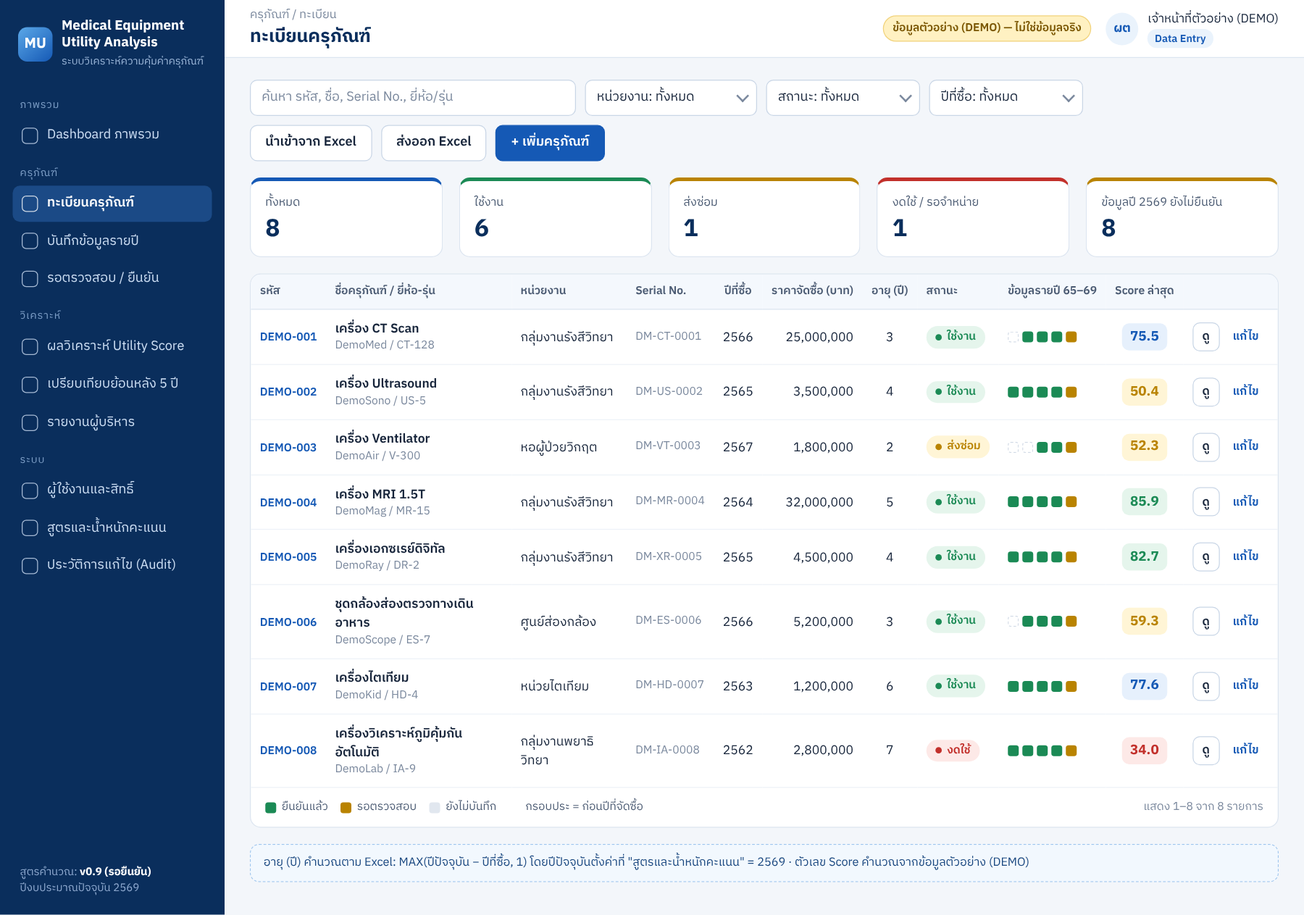
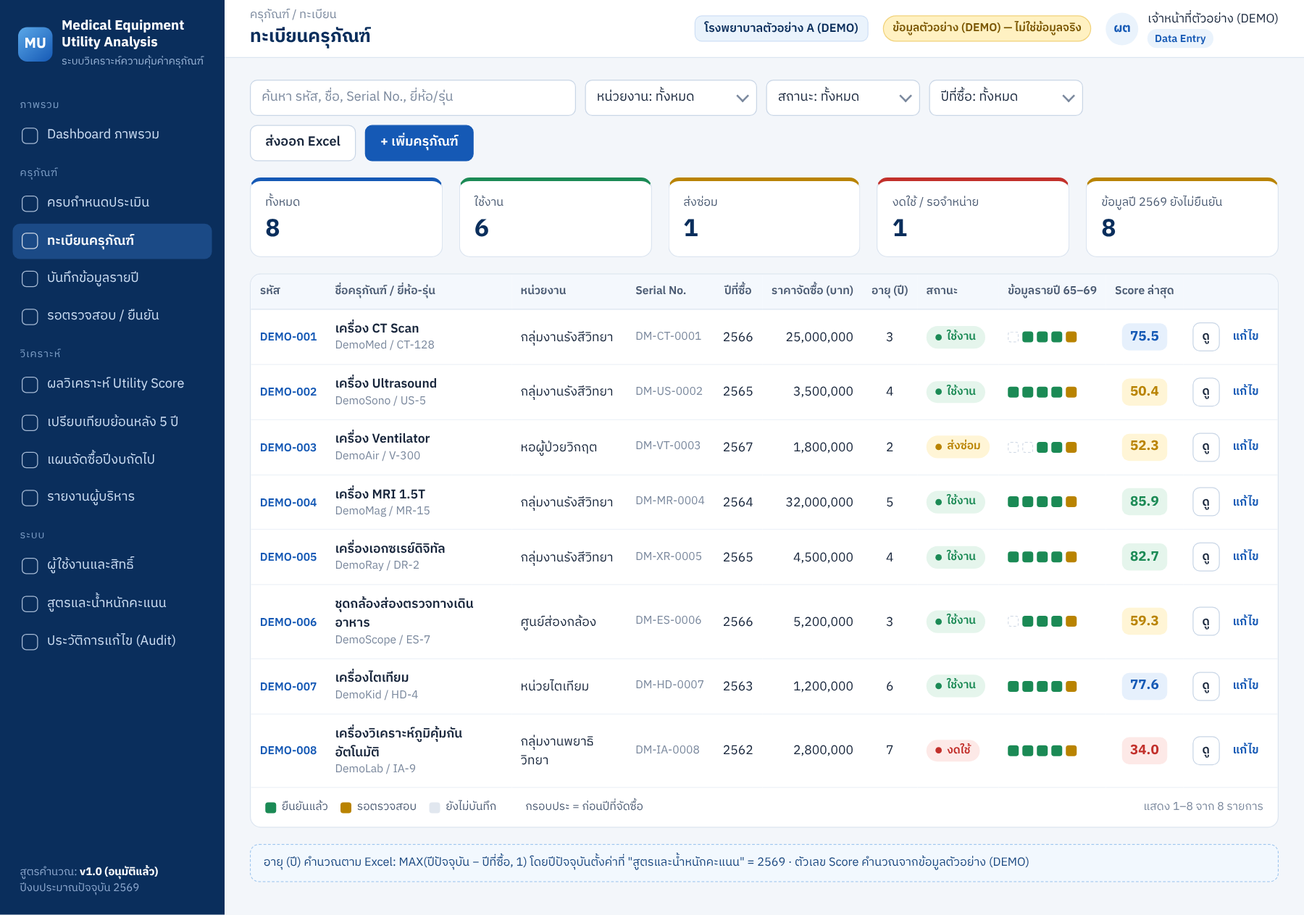
Record approved decisions (formula set v1.0) and multi-hospital assessment cycle
- Q-01..Q-14 adopted as recommended; Q-15 changed: no Excel import,
  hospital staff inspect and enter due equipment each fiscal year
- Add hospital tenant model, assessment cycle, due-task and
  next-year procurement plan to architecture, modules and DB design
- New mockups: due-assessment list and procurement plan; existing
  mockups show approved formula set and hospital context
- New open questions N-01..N-06

Claude-Session: https://claude.ai/code/session_012tXZqSBYX4rPjLh51zmygu

diff --git a/docs/Phase1-Analysis-Design.md b/docs/Phase1-Analysis-Design.md
@@ -1,8 +1,8 @@
 # ระยะที่ 1: วิเคราะห์เอกสารและออกแบบระบบ
 ## Medical Equipment Utility Analysis Web Application
 
-> **สถานะ:** รอการตรวจสอบและอนุมัติ ยังไม่ได้เขียนโปรแกรม สร้างฐานข้อมูล Deploy หรือเชื่อมต่อระบบจริง
-> **วันที่จัดทำ:** 2 พ.ย. 2569
+> **สถานะ:** ประเด็น Q-01 ถึง Q-15 **อนุมัติแล้ว** (2 พ.ย. 2569) ตามข้อเสนอ ยกเว้น Q-15 ที่ปรับตามวิธีนำเข้าข้อมูลที่กำหนด (ดูข้อ 1.10) ภาพ Mockup ยังรอการอนุมัติ ยังไม่ได้เขียนโปรแกรม สร้างฐานข้อมูล Deploy หรือเชื่อมต่อระบบจริง
+> **วันที่จัดทำ:** 2 พ.ย. 2569 · **ปรับปรุงครั้งที่ 2:** 2 พ.ย. 2569 (เพิ่มรูปแบบหลายโรงพยาบาล, รอบการประเมินประจำปี, แผนจัดซื้อปีงบถัดไป)
 > **ข้อมูลในภาพ Mockup ทั้งหมดเป็นข้อมูลตัวอย่าง (DEMO)** รหัสขึ้นต้นด้วย `DEMO-` ทั้งหมด ไม่ใช่ข้อมูลจริงของหน่วยงาน
 
 ---
@@ -217,9 +217,66 @@ Form Questions (รายปี)  ··· ไม่มีการเชื่อ
 | **Q-14** | ครุภัณฑ์ที่ซื้อพร้อมกันหลายเครื่อง (E-10) บันทึกแยกเครื่องหรือรวม และราคาต่อเครื่องคิดอย่างไร | แยกเครื่องตาม Serial พร้อมอ้างเลขสัญญาเดียวกัน |
 | **Q-15** | ข้อมูลจริงในไฟล์ B ต้องนำเข้าระบบหรือไม่ และใครยืนยันความถูกต้อง | นำเข้าเป็น "ร่าง" ให้ Reviewer ยืนยันทีละรายการ |
 
+## 1.10 บันทึกการตัดสินใจ (อนุมัติ 2 พ.ย. 2569) → ชุดสูตร v1.0
+
+ผู้ใช้อนุมัติให้ใช้ข้อเสนอของ Q-01 ถึง Q-14 ทั้งหมด ส่วน Q-15 ปรับเป็น: **ไม่นำเข้าข้อมูลจากไฟล์ Excel โดยตรง** เจ้าหน้าที่ของแต่ละโรงพยาบาลเป็นผู้ตรวจและกรอกข้อมูลครุภัณฑ์ที่ครบกำหนดเข้าระบบเอง เพื่อวัดค่าและใช้วางแผนจัดซื้อในปีงบประมาณถัดไป
+
+| รหัส | ข้อกำหนดที่ใช้ในชุดสูตร v1.0 |
+|---|---|
+| D-01 (Q-01) | **Utilization Rate = ชม.ใช้งานจริง ÷ ชม.พร้อมใช้งานสูงสุด × 100** เป็นค่าหลักที่เข้าสูตร ส่วนแบบวัน (วันใช้จริง ÷ วันพร้อมใช้ × 100) แสดงประกอบ |
+| D-02 (Q-02) | คำนวณ **2 แบบ**: (1) **Score สะสม** ตามสูตร Excel โดยใช้ข้อมูลรายปีที่ยืนยันแล้วในช่วงวิเคราะห์ (สูงสุด 5 ปีงบ) รวมดังนี้ เคส/ค่าบำรุงรักษา/รายได้ใช้ผลรวม, Utilization และ Downtime ใช้ค่าเฉลี่ยถ่วงน้ำหนักด้วยชั่วโมง (Σชม.ใช้จริง ÷ Σชม.พร้อมใช้, Σชม.หยุด ÷ Σชม.พร้อมใช้), คะแนน 1–5 ใช้ค่าของปีล่าสุด (รอยืนยันที่ N-06) (2) **Score รายปี** ใช้ข้อมูลปีเดียว เพื่อดูแนวโน้ม |
+| D-03 (Q-03) | Maintenance Cost = ซ่อม + อะไหล่ + PM + สอบเทียบ + อื่น ๆ |
+| D-04 (Q-04) | ต้นทุนต่อเคสใช้สูตร Excel เป็นค่าหลัก ส่วน Cost per Use รายปี = (ราคาซื้อ ÷ อายุตามเกณฑ์ + ค่าบำรุงรักษาปีนั้น) ÷ ครั้งใช้งานปีนั้น แสดงเมื่อกรอกอายุตามเกณฑ์แล้ว |
+| D-05 (Q-05) | Financial Score = 50 **เฉพาะ** เมื่อเลือก "ไม่มีรายได้ตรง" กรณีข้อมูลผิดหรือไม่ครบ ระบบไม่คำนวณและแจ้งเตือน |
+| D-06 (Q-06) | Downtime % = ชม.หยุด ÷ ชม.พร้อมใช้งาน × 100 |
+| D-07 (Q-07) | ระบบไม่ใช้ไฟล์ B ในการคำนวณ ข้อผิดพลาด E-01 ถึง E-15 ยังส่งกลับให้เจ้าของไฟล์ตรวจสอบเพื่อใช้ทำสไลด์ |
+| D-08 (Q-08) | รายการที่ข้อมูลไม่ครบหรือยังไม่ยืนยัน **ไม่ได้รับ Score** และแสดงสถานะ "ข้อมูลไม่ครบ" |
+| D-09 (Q-09) | ราคา ≥ 1,000,000 บาท เป็นตัวกรองเริ่มต้น และยังบันทึกรายการที่ราคาต่ำกว่าได้ |
+| D-10 (Q-10) | ชุดสูตรเปลี่ยนได้โดย Administrator กลางเท่านั้น ต้องได้รับอนุมัติจากผู้บริหาร เก็บเป็นเวอร์ชัน และ Score เก่ายังอ้างเวอร์ชันเดิม ทุกโรงพยาบาลใช้ชุดสูตรเดียวกันเพื่อให้เปรียบเทียบกันได้ |
+| D-11 (Q-11) | อายุ = MAX(ปีงบที่วิเคราะห์ − ปีที่ซื้อ, 1) |
+| D-12 (Q-12) | ธงเตือน "Utilization < 40% หรือ Score < 50" แสดงแยกจากข้อเสนอแนะ 4 ระดับ |
+| D-13 (Q-13) | คะแนน 1–5 รับทศนิยม 1 ตำแหน่ง และบังคับกรอกเหตุผล |
+| D-14 (Q-14) | บันทึกแยกเครื่องตาม Serial No. และอ้างเลขสัญญาเดียวกันได้ |
+| D-15 (Q-15, ปรับ) | ไม่มีการนำเข้าไฟล์ Excel เจ้าหน้าที่โรงพยาบาลกรอกเองตามรอบการประเมิน ถ้าต้องการประวัติย้อนหลัง 5 ปีตั้งแต่เริ่มใช้ระบบ ให้เจ้าหน้าที่กรอกข้อมูลปีก่อนหน้าผ่านแบบฟอร์มเดียวกัน และต้องผ่านการยืนยันเหมือนปีปัจจุบัน |
+
+**สิ่งที่ไม่เปลี่ยน:** น้ำหนัก 25/20/20/15/10/10, การแปลงคะแนน (×20, 100 − Downtime, 100 − Payback × 15), Payback = ราคาซื้อ ÷ รายได้เฉลี่ยต่อปี, เกณฑ์ 80/60/40 และ RANK
+
+### ประเด็นใหม่ที่ต้องยืนยัน (จากรูปแบบหลายโรงพยาบาล)
+
+| รหัส | คำถาม | ข้อเสนอเบื้องต้น |
+|---|---|---|
+| N-01 | ต้องมีผู้ใช้ส่วนกลาง (เช่น ระดับกรม) ที่ดูข้อมูลและเปรียบเทียบหลายโรงพยาบาลหรือไม่ | มีบทบาท "ผู้บริหารส่วนกลาง" แบบอ่านอย่างเดียว |
+| N-02 | "ครบกำหนด" มีเงื่อนไขอะไรบ้าง | (1) ทุกเครื่องที่ใช้งาน/พร้อมใช้/ซ่อม ครบกำหนดประเมินทุกปีงบ (2) ระบุเหตุเพิ่มเมื่อครบอายุใช้งานตามเกณฑ์ หรือครบกำหนด PM/สอบเทียบ (3) เครื่องรับเข้าใหม่เข้ารอบถัดไป |
+| N-03 | กำหนดเปิด–ปิดรอบการประเมิน | เปิด 1 ต.ค. (หลังสิ้นปีงบ) ปิด 31 ต.ค. ทันเวลาทำคำของบปีงบถัดไป ทั้งนี้ปรับได้ตามปฏิทินงบประมาณของหน่วยงาน |
+| N-04 | การตรวจสภาพเครื่องต้องมีรายการตรวจ (Checklist) มาตรฐานหรือไม่ | เริ่มจากช่อง สภาพเครื่อง (ดี/พอใช้/ชำรุด), วันที่ตรวจ, ผู้ตรวจ และหมายเหตุ ไว้เพิ่ม Checklist ตามประเภทเครื่องภายหลัง |
+| N-05 | แผนจัดซื้อต้องผ่านการอนุมัติกี่ระดับ | Reviewer ของโรงพยาบาลจัดทำ → ผู้บริหารโรงพยาบาลอนุมัติ → ส่งออกเป็นเอกสารประกอบคำของบ |
+| N-06 | Score สะสมใช้คะแนน Clinical/Satisfaction/Strategic ของปีล่าสุด หรือค่าเฉลี่ยทุกปีในช่วงวิเคราะห์ | ใช้ปีล่าสุด เพราะสะท้อนสภาพปัจจุบันที่ใช้ตัดสินใจจัดซื้อ |
+
 ---
 
 # Deliverable 2: System Analysis
+
+## 2.0 รูปแบบการใช้งาน: หลายโรงพยาบาล + รอบการประเมินประจำปี
+
+**แต่ละโรงพยาบาลเป็นหน่วยข้อมูลแยกกัน (Tenant)** ผู้ใช้ ครุภัณฑ์ ข้อมูลรายปี และแผนจัดซื้อ ผูกกับโรงพยาบาล (อ้างอิงรหัสสถานพยาบาล HCODE) ผู้ใช้เห็นเฉพาะข้อมูลโรงพยาบาลของตน ทุกโรงพยาบาลใช้ชุดสูตรกลางชุดเดียวกัน
+
+```mermaid
+flowchart LR
+  A[เปิดรอบประเมิน<br/>ปีงบ N] --> B[ระบบสร้างรายการ<br/>ครบกำหนดของแต่ละ รพ.]
+  B --> C[เจ้าหน้าที่ รพ.<br/>ตรวจสภาพเครื่อง + กรอกข้อมูลปีงบ N]
+  C --> D[ผู้ตรวจสอบ รพ.<br/>ยืนยัน / ตีกลับ]
+  D -->|ยืนยัน| E[คำนวณ Score<br/>ชุดสูตร v1.0]
+  D -->|ตีกลับ| C
+  E --> F[แผนจัดซื้อ/ทดแทน<br/>ปีงบ N+1]
+  F --> G[ผู้บริหาร รพ. อนุมัติ<br/>ส่งออกประกอบคำของบ]
+  G --> H[ปิดรอบ / ล็อกข้อมูล]
+  H -.ปีถัดไป.-> A
+```
+
+- **รายการครบกำหนด** สร้างอัตโนมัติเมื่อเปิดรอบ จากครุภัณฑ์ทุกเครื่องที่สถานะ ใช้งาน/พร้อมใช้/ซ่อม และระบุเหตุเพิ่ม เช่น ครบอายุใช้งาน หรือครบกำหนดสอบเทียบ (N-02) มอบหมายเจ้าหน้าที่รายเครื่องได้
+- **การตรวจสภาพเครื่อง** อยู่ในแบบฟอร์มรายปี (สภาพ, วันที่ตรวจ, ผู้ตรวจ) (N-04)
+- **แผนจัดซื้อปีงบถัดไป** ดึง Score ที่ยืนยันแล้วมาเรียงลำดับ ข้อเสนอแนะตามเกณฑ์มาจากสูตรและแก้ไม่ได้ โรงพยาบาลกรอกแนวทางที่เสนอ งบประมาณประมาณการ และลำดับความสำคัญพร้อมเหตุผล ผู้บริหารเป็นผู้อนุมัติ
+- **ประวัติย้อนหลัง 5 ปี** สะสมขึ้นทุกรอบ ปีแรกที่ใช้ระบบสามารถกรอกข้อมูลปีก่อนหน้าย้อนหลังได้ (D-15)
 
 ## 2.1 System Architecture ที่เสนอ
 
@@ -233,7 +290,6 @@ flowchart LR
   API --> FS[(File Storage<br/>หลักฐานประกอบ)]
   API --> RPT[Report Service<br/>PDF / Excel]
   API --> CALC[Calculation Engine<br/>สูตรแบบมีเวอร์ชัน]
-  API -.นำเข้า.-> XLS[ไฟล์ Excel เดิม]
 ```
 
 **หลักการ**
@@ -245,10 +301,12 @@ flowchart LR
 
 | บทบาท | หน้าที่ | ขอบเขตข้อมูล |
 |---|---|---|
-| Administrator | จัดการผู้ใช้ บทบาท หน่วยงาน ตั้งค่าระบบ เสนอเวอร์ชันสูตร ปลดล็อกข้อมูล | ทุกหน่วยงาน |
-| Data Entry | เพิ่ม/แก้ไขทะเบียนครุภัณฑ์และข้อมูลรายปี (สถานะร่าง) ส่งตรวจ | เฉพาะหน่วยงานที่ได้รับมอบหมาย |
-| Reviewer | ตรวจสอบ ยืนยัน หรือตีกลับพร้อมเหตุผล | ตามที่ได้รับมอบหมาย |
-| Executive | ดู Dashboard รายงาน และส่งออก PDF/Excel | ทุกหน่วยงาน (อ่านอย่างเดียว) |
+| Administrator กลาง | จัดการโรงพยาบาล ชุดสูตร (เสนอเวอร์ชัน) การตั้งค่าระบบ เปิด–ปิดรอบประเมิน | ทุกโรงพยาบาล |
+| Administrator ของ รพ. | จัดการผู้ใช้ บทบาท หน่วยงานภายใน มอบหมายรายการครบกำหนด ปลดล็อกข้อมูล | โรงพยาบาลของตน |
+| Data Entry (เจ้าหน้าที่ รพ.) | ตรวจสภาพเครื่อง เพิ่ม/แก้ไขทะเบียนครุภัณฑ์และข้อมูลรายปี (สถานะร่าง) ส่งตรวจ | รายการที่ได้รับมอบหมายในโรงพยาบาลของตน |
+| Reviewer (ผู้ตรวจสอบ รพ.) | ตรวจสอบ ยืนยัน หรือตีกลับพร้อมเหตุผล จัดทำร่างแผนจัดซื้อ | โรงพยาบาลของตน |
+| Executive (ผู้บริหาร รพ.) | ดู Dashboard รายงาน อนุมัติแผนจัดซื้อ ส่งออก PDF/Excel | โรงพยาบาลของตน |
+| ผู้บริหารส่วนกลาง (รอยืนยัน N-01) | ดูและเปรียบเทียบข้อมูลหลายโรงพยาบาล (อ่านอย่างเดียว) | ทุกโรงพยาบาล |
 
 > ผู้ใช้ 1 คนมีได้หลายบทบาท แต่ระบบห้ามยืนยันข้อมูลที่ตนเองเป็นผู้บันทึก (Segregation of Duties)
 
@@ -265,12 +323,13 @@ stateDiagram-v2
   ล็อก --> [*]
 ```
 
-1. **Login** ด้วย Provider ID → ผู้ใช้ใหม่สถานะ "รออนุมัติ" → Admin กำหนดบทบาทและหน่วยงาน
+1. **Login** ด้วย Provider ID → ผู้ใช้ใหม่สถานะ "รออนุมัติ" → Admin ของโรงพยาบาลกำหนดบทบาทและหน่วยงาน
 2. **ลงทะเบียนครุภัณฑ์** (ข้อมูลพื้นฐาน 1 ครั้ง) และแนบหลักฐาน
-3. **บันทึกข้อมูลรายปี** ทีละปีงบประมาณ ระบบตรวจสอบทันที → ส่งตรวจ
+3. **เปิดรอบประเมินปีงบ** → ระบบสร้างรายการครบกำหนด → เจ้าหน้าที่ตรวจสภาพเครื่องและ **บันทึกข้อมูลรายปี** ระบบตรวจสอบทันที → ส่งตรวจ
 4. **Reviewer ยืนยัน** → ระบบคำนวณ Score อัตโนมัติด้วยชุดสูตรที่อนุมัติ
-5. **Executive ดู** Dashboard, เปรียบเทียบ, ส่งออกรายงาน (เลือกได้ว่าใช้เฉพาะข้อมูลที่ยืนยันแล้ว)
-6. การแก้ไขข้อมูลที่ยืนยันแล้วจะสร้าง **เวอร์ชันใหม่** โดยไม่เขียนทับเวอร์ชันเดิม
+5. **Reviewer จัดทำแผนจัดซื้อ/ทดแทนปีงบถัดไป** → Executive อนุมัติ
+6. **Executive ดู** Dashboard, เปรียบเทียบ, ส่งออกรายงาน (เลือกได้ว่าใช้เฉพาะข้อมูลที่ยืนยันแล้ว)
+7. การแก้ไขข้อมูลที่ยืนยันแล้วจะสร้าง **เวอร์ชันใหม่** โดยไม่เขียนทับเวอร์ชันเดิม
 
 ## 2.4 Data Flow
 
@@ -283,6 +342,8 @@ flowchart TD
   C --> D[Calculation Engine]
   D --> E[score_result<br/>คะแนน 6 ปัจจัย + ค่าระหว่างทาง + เวอร์ชัน]
   E --> G[Dashboard / ผลวิเคราะห์ / รายงาน PDF-Excel]
+  E --> P[แผนจัดซื้อปีงบถัดไป<br/>procurement_plan_item]
+  T[รอบประเมิน + รายการครบกำหนด<br/>assessment_cycle / task] --> B
   B -. ทุกการเปลี่ยนแปลง .-> H[(audit_log)]
   A -. .-> H
   F -. .-> H
@@ -294,14 +355,16 @@ flowchart TD
 |---|---|
 | M1 Authentication & Authorization | OIDC กับ Provider ID, Session, RBAC + ขอบเขตหน่วยงาน |
 | M2 Master Data | หน่วยงาน ประเภทครุภัณฑ์ ปีงบประมาณ สถานะ |
-| M3 Equipment Registry | เพิ่ม แก้ไข ค้นหา ดูรายละเอียด ประวัติการประเมิน แนบเอกสาร นำเข้า Excel |
+| M3 Equipment Registry | เพิ่ม แก้ไข ค้นหา ดูรายละเอียด ประวัติการประเมิน แนบเอกสาร (ไม่มีการนำเข้าไฟล์ Excel ตาม D-15) |
 | M4 Annual Data Entry | แบบฟอร์มรายปี 4 หมวด, Validation, บันทึกร่าง, ประวัติซ่อมบำรุง |
 | M5 Review & Approval | คิวรอตรวจ ยืนยัน ตีกลับ ล็อก/ปลดล็อก |
 | M6 Calculation Engine | ชุดสูตรแบบมีเวอร์ชัน คำนวณสะสมและรายปี Golden Test กับ Excel |
 | M7 Dashboard & Analytics | KPI, กราฟ 7 ชนิด, ตัวกรอง 6 ชนิด, เปรียบเทียบ |
 | M8 Reports & Export | PDF สำหรับผู้บริหาร, Excel (รวมแผ่นแสดงสูตร) |
 | M9 Audit Trail | บันทึกทุกการสร้าง แก้ไข ยืนยัน ส่งออก และเข้าสู่ระบบ |
-| M10 Administration | ผู้ใช้ บทบาท ชุดสูตร (อนุมัติ 2 ชั้น) การตั้งค่า |
+| M10 Administration | โรงพยาบาล ผู้ใช้ บทบาท ชุดสูตร (อนุมัติ 2 ชั้น) การตั้งค่า |
+| M11 Assessment Cycle | เปิด–ปิดรอบปีงบ สร้างรายการครบกำหนดอัตโนมัติ มอบหมายเจ้าหน้าที่ ติดตามความคืบหน้าและกำหนดส่ง แจ้งเตือนใกล้ครบกำหนด |
+| M12 Procurement Plan | แผนจัดซื้อ/ทดแทนปีงบถัดไป จากผลที่ยืนยันแล้ว ข้อเสนอตามเกณฑ์ + ธงเตือน แนวทาง งบประมาณ ลำดับความสำคัญ การอนุมัติ และส่งออก |
 
 ## 2.6 แนวทางเชื่อมต่อ Provider ID
 
@@ -347,7 +410,7 @@ flowchart TD
 
 ## หน้า 3 — ทะเบียนครุภัณฑ์
 ![Registry](mockups/03-registry.png)
-- ค้นหาด้วยรหัส, ชื่อ, Serial หรือยี่ห้อ/รุ่น และกรองตามหน่วยงาน/สถานะ/ปี นำเข้าและส่งออก Excel ได้
+- ค้นหาด้วยรหัส, ชื่อ, Serial หรือยี่ห้อ/รุ่น และกรองตามหน่วยงาน/สถานะ/ปี ส่งออก Excel ได้ ไม่มีปุ่มนำเข้า (เจ้าหน้าที่ลงทะเบียนเองตาม D-15)
 - คอลัมน์ "ข้อมูลรายปี 65–69" แสดงความครบถ้วนของข้อมูลแต่ละปี (เขียว = ยืนยัน, เหลือง = รอตรวจ, เทา = ยังไม่บันทึก, กรอบประ = ก่อนปีจัดซื้อ)
 
 ## หน้า 4 — เพิ่ม / แก้ไขครุภัณฑ์
@@ -355,6 +418,7 @@ flowchart TD
 - 4 หมวด: ข้อมูลพื้นฐาน, การจัดซื้อและอายุ, สถานะ, เอกสารหลักฐาน ช่องบังคับมี \* ช่องคำนวณอัตโนมัติเป็นสีส้มอ่อน (อ่านอย่างเดียว)
 - แผงขวา: ผลตรวจความถูกต้อง, ประวัติการแก้ไข (ใคร/อะไร/เมื่อใด), ประวัติการประเมินพร้อมเวอร์ชันสูตร
 - **ข้อมูลพื้นฐานแยกจากข้อมูลรายปี** ตามข้อกำหนดข้อ 5
+- ไม่มีการนำเข้าจากไฟล์ Excel ทุกเครื่องลงทะเบียนโดยเจ้าหน้าที่โรงพยาบาล
 
 ## หน้า 5 — แบบฟอร์มบันทึกข้อมูลรายปี
 ![Annual form](mockups/05-annual-form.png)
@@ -362,6 +426,7 @@ flowchart TD
 - 4 หมวด: การใช้งาน, การเงิน, ความน่าเชื่อถือ (รวมประวัติซ่อมบำรุง), ผลลัพธ์และความปลอดภัย (คะแนน 1–5, Recall, เหตุการณ์ความปลอดภัย, ความจำเป็นทางคลินิก, ข้อเสนอแนะหน่วยงาน, หลักฐาน)
 - แผงขวา "ค่าคำนวณอัตโนมัติ" แสดงสูตรพร้อมตัวเลขจริงทุกบรรทัด, **ข้อผิดพลาด** (สีแดง ส่งตรวจไม่ได้) และ **ข้อสังเกต** (สีเหลือง ต้องระบุเหตุผล)
 - แถบขั้นตอน: ร่าง → ส่งตรวจสอบ → ยืนยัน → ล็อก
+- จะเพิ่มช่อง **ผลตรวจสภาพเครื่อง** (สภาพ, วันที่ตรวจ, ผู้ตรวจ) ที่หมวด D ตามข้อ N-04 ในรอบออกแบบถัดไป
 
 ## หน้า 6 — ผลการวิเคราะห์ Utility Score
 ![Score](mockups/06-score.png)
@@ -384,6 +449,20 @@ flowchart TD
 ![Users](mockups/09-users-roles.png)
 - รายชื่อผู้ใช้ตาม Provider ID, บทบาท, ขอบเขตหน่วยงาน, สถานะ (ใช้งาน/รออนุมัติ/ระงับ)
 - Audit Log ล่าสุด และตาราง **Role Permission Matrix** 10 สิทธิ์ × 4 บทบาท
+
+## หน้า 10 — รายการครบกำหนดประเมิน (งานของเจ้าหน้าที่ รพ.)
+![Due list](mockups/12-due-assessment.png)
+- แถบรอบการประเมิน: ปีงบ ช่วงข้อมูล วันปิดรับ และปีงบที่จะใช้ผลทำแผน พร้อมขั้นตอน เปิดรอบ → ตรวจ/บันทึก → ยืนยัน → ทำแผนจัดซื้อ
+- KPI ตามสถานะ: ยังไม่เริ่ม / กำลังบันทึก / รอตรวจสอบ / ถูกตีกลับ / ยืนยันแล้ว
+- ตารางรายการพร้อม **เหตุที่ครบกำหนด** (ประเมินประจำปี, ครบอายุใช้งาน, ครบกำหนดสอบเทียบ, รับเข้าใหม่), ผู้รับผิดชอบ, กำหนดส่ง และความครบถ้วนของข้อมูล
+- แผงขวา: ขั้นตอนการทำงานของเจ้าหน้าที่ และความเห็นของผู้ตรวจสอบเมื่อตีกลับ
+
+## หน้า 11 — แผนจัดซื้อ / ทดแทน ปีงบประมาณถัดไป
+![Procurement plan](mockups/13-procurement-plan.png)
+- สรุปจำนวนและงบประมาณตามข้อเสนอแนะ 4 ระดับ
+- **ข้อเสนอแนะตามเกณฑ์** และ **ธงเตือน (D-12)** มาจากสูตรและแก้ไขไม่ได้ ส่วน **แนวทางในแผน งบประมาณ และลำดับความสำคัญ** โรงพยาบาลกรอกพร้อมเหตุผล
+- รายการที่ข้อมูลปีปัจจุบันยังไม่ยืนยันจะมีสถานะ "ร่าง" ในแผน → Reviewer ส่งแผน → Executive อนุมัติ → ส่งออกประกอบคำของบประมาณ
+- งบประมาณในภาพเป็นตัวเลขตัวอย่าง
 
 ## Responsive (Mobile)
 | Dashboard (390px) | บันทึกข้อมูล (390px) |
@@ -411,6 +490,14 @@ flowchart TD
 
 ```mermaid
 erDiagram
+  hospital ||--o{ department : has
+  hospital ||--o{ app_user : employs
+  hospital ||--o{ assessment_cycle : runs
+  assessment_cycle ||--o{ assessment_task : creates
+  equipment ||--o{ assessment_task : due
+  assessment_task ||--o| annual_record : fills
+  assessment_cycle ||--o{ procurement_plan_item : yields
+  equipment ||--o{ procurement_plan_item : planned
   department ||--o{ equipment : owns
   equipment_type ||--o{ equipment : classifies
   equipment ||--o{ annual_record : has
@@ -426,13 +513,17 @@ erDiagram
 
 | ตาราง | ฟิลด์หลัก |
 |---|---|
-| `equipment` | id, code (unique), name, type_id, department_id, brand, model, serial_no (unique), purchase_year_be, purchase_price, contract_no, received_date, start_date, useful_life_years, status, maintenance_plan, created_by, updated_by, version |
-| `annual_record` | id, equipment_id, fiscal_year_be (unique ต่อ equipment), available_days, actual_days, max_available_hours, actual_hours, use_count, case_count, repair_cost, parts_cost, pm_cost, calibration_cost, other_cost, revenue, no_direct_revenue_flag, repair_days, breakdown_count, downtime_hours, clinical_score, satisfaction_score, strategic_score, clinical_necessity, safety_event, safety_detail, recall_status, unit_recommendation, rationale, **status** (draft/submitted/approved/locked), version |
+| `hospital` | id, hcode (unique), name, province, status |
+| `equipment` | id, hospital_id, code (unique ต่อโรงพยาบาล), name, type_id, department_id, brand, model, serial_no (unique), purchase_year_be, purchase_price, contract_no, received_date, start_date, useful_life_years, status, maintenance_plan, created_by, updated_by, version |
+| `annual_record` | id, equipment_id, fiscal_year_be (unique ต่อ equipment), available_days, actual_days, max_available_hours, actual_hours, use_count, case_count, repair_cost, parts_cost, pm_cost, calibration_cost, other_cost, revenue, no_direct_revenue_flag, repair_days, breakdown_count, downtime_hours, clinical_score, satisfaction_score, strategic_score, clinical_necessity, condition (ดี/พอใช้/ชำรุด), inspected_at, inspected_by, safety_event, safety_detail, recall_status, unit_recommendation, rationale, **status** (draft/submitted/approved/locked), version |
+| `assessment_cycle` | id, hospital_id, fiscal_year_be, opens_at, closes_at, plan_fiscal_year_be, status (open/closed) |
+| `assessment_task` | id, cycle_id, equipment_id, reasons (JSON: annual/end_of_life/calibration_due/new), assignee_id, due_date, status, annual_record_id |
+| `procurement_plan_item` | id, cycle_id, equipment_id, score_result_id, system_recommendation, warning_flag, proposed_action, est_budget, priority, rationale, status (draft/proposed/approved/rejected), approved_by, approved_at |
 | `maintenance_event` | id, annual_record_id, date, type (ซ่อม/PM/สอบเทียบ), detail, cost, work_order_no |
 | `formula_set` | id, version, weights (JSON), payback_penalty, thresholds (JSON), definitions (JSON), status (draft/approved/retired), approved_by, approved_at |
 | `score_result` | id, equipment_id, formula_set_id, period_from, period_to, basis (cumulative/annual), inputs_snapshot (JSON), intermediate (JSON: age, payback, cpc, 6 scores), utility_score, rank, recommendation, computed_at |
 | `attachment` | id, owner_type, owner_id, filename, mime, size, sha256, storage_key, uploaded_by |
-| `app_user` / `user_role` | provider_id (unique), name, department_id, status / role, department_scope |
+| `app_user` / `user_role` | provider_id (unique), hospital_id, name, department_id, status / role, hospital_scope, department_scope |
 | `review_action` | record_id, action (submit/approve/reject/unlock), reason, actor, at |
 | `audit_log` | id, actor_id, action, entity, entity_id, before (JSON), after (JSON), ip, user_agent, at (append-only) |
 
@@ -445,7 +536,7 @@ erDiagram
 - Golden Test เทียบกับค่าในไฟล์ A ทุกแถว ต้องตรงที่ทศนิยม 6 ตำแหน่ง
 - Validation 2 ชั้น (Frontend + Backend) เช่น วันใช้จริง ≤ วันพร้อมใช้, ชม.ใช้จริง ≤ ชม.พร้อมใช้, คะแนน 1–5, ค่าเงิน ≥ 0, ปี พ.ศ. 2500–2600, ไม่ซ้ำปีงบต่อเครื่อง และแจ้งเตือนเมื่อค่าเปลี่ยนจากปีก่อนเกิน ±30%
 - Optimistic locking (field `version`) ป้องกันการบันทึกทับกัน
-- API ตรวจสิทธิ์ตามบทบาทและขอบเขตหน่วยงานทุก endpoint
+- API ตรวจสิทธิ์ตามบทบาท โรงพยาบาล และหน่วยงานทุก endpoint (ทุก query กรองด้วย hospital_id และใช้ Row-level Security ของ PostgreSQL ซ้ำอีกชั้น)
 
 **Frontend**
 - Design tokens ตาม Mockup (สี ฟอนต์ ระยะ) และ Component กลาง (KPI Card, Score Badge, Status Chip, Calc Line)
@@ -456,13 +547,13 @@ erDiagram
 
 | Sprint | งาน |
 |---|---|
-| 0 | ยืนยันประเด็น Q-01 ถึง Q-15 และอนุมัติชุดสูตร v1.0 |
+| 0 | ✓ อนุมัติ Q-01 ถึง Q-15 (ชุดสูตร v1.0) · เหลือยืนยัน N-01 ถึง N-06 และ Mockup |
 | 1 | โครงสร้างโปรเจกต์, DB, Auth (IdP จำลอง), RBAC, Audit |
-| 2 | ทะเบียนครุภัณฑ์ + เอกสารแนบ + นำเข้า Excel |
-| 3 | ฟอร์มรายปี + Validation + Review Workflow |
+| 2 | โรงพยาบาล (Tenant) + ทะเบียนครุภัณฑ์ + เอกสารแนบ |
+| 3 | รอบประเมิน + รายการครบกำหนด + ฟอร์มรายปี + Validation + Review Workflow |
 | 4 | Calculation Engine + Golden Test + หน้าผลวิเคราะห์ |
 | 5 | Dashboard + หน้ารายละเอียด 5 ปี |
-| 6 | รายงาน PDF/Excel + การจัดการผู้ใช้ |
+| 6 | แผนจัดซื้อปีงบถัดไป + รายงาน PDF/Excel + การจัดการผู้ใช้ |
 | 7 | เชื่อม Provider ID จริง (เมื่อได้เอกสาร), Security test, UAT |
 
 ## 4.4 แนวทางรักษาความปลอดภัย
@@ -483,7 +574,8 @@ erDiagram
 | Unit | สูตรทุกตัว + Golden Test กับ Excel + Edge cases (รายได้ 0, เคส 0, ปีที่ซื้อ = ปีปัจจุบัน, ข้อมูลไม่ครบ) |
 | Integration | API + DB + สิทธิ์ตามบทบาท/หน่วยงาน, Workflow ร่าง → ยืนยัน → ล็อก |
 | E2E | Playwright: Login (IdP จำลอง), บันทึกข้อมูลครบ 5 ปี, ส่งออกรายงาน |
-| Reconciliation | นำข้อมูลไฟล์ B เข้า แล้วเทียบผลกับ Excel ทุกแถว (ยกเว้นแถวที่มีข้อผิดพลาด E-01 ถึง E-05 ซึ่งแยกรายงาน) |
+| Reconciliation | กรอกข้อมูลตัวอย่างของไฟล์ A ผ่านแบบฟอร์ม แล้วเทียบ Score กับ Excel ทุกแถว |
+| Tenant isolation | ผู้ใช้โรงพยาบาลหนึ่งต้องอ่านหรือแก้ข้อมูลของโรงพยาบาลอื่นไม่ได้ทุกช่องทาง (API, รายงาน, ไฟล์แนบ) |
 | Security | OWASP ZAP, Dependency scan, Penetration test โดยหน่วยงานที่ได้รับอนุญาต |
 | Usability / UAT | ผู้ใช้จริงแต่ละบทบาท ทดสอบบน Desktop, Tablet และ Mobile |
 | Performance | 500 ครุภัณฑ์ × 5 ปี: Dashboard โหลดภายใน 2 วินาที |
@@ -492,18 +584,18 @@ erDiagram
 
 1. **Dev / Test / Production แยกกัน** Test ใช้ข้อมูล DEMO หรือข้อมูลที่ปกปิดแล้ว
 2. ได้รับอนุมัติชุดสูตร v1.0 และเอกสาร Provider ID จากผู้ดูแลระบบ
-3. นำเข้าข้อมูลจริงเป็น "ร่าง" และให้ Reviewer ยืนยัน
-4. **Pilot** 1–2 หน่วยงาน 1 เดือน โดยใช้ Excel คู่ขนานเพื่อเทียบผล
+3. ลงทะเบียนโรงพยาบาลนำร่องและผู้ใช้ เจ้าหน้าที่ลงทะเบียนครุภัณฑ์และกรอกข้อมูลปีงบปัจจุบัน (และปีย้อนหลังถ้าต้องการ) ให้ Reviewer ยืนยัน
+4. **Pilot** 1–2 โรงพยาบาล ตลอด 1 รอบการประเมิน (ต.ค.) และจัดทำแผนจัดซื้อจริง โดยใช้ Excel คู่ขนานเพื่อเทียบผล
 5. อบรมผู้ใช้ตามบทบาท พร้อมคู่มือภาษาไทย
-6. Go-live ทั้งหน่วยงาน มีแผน Rollback และสำรองข้อมูลก่อนขึ้นระบบ
+6. ขยายใช้งานทุกโรงพยาบาล มีแผน Rollback และสำรองข้อมูลก่อนขึ้นระบบ
 7. ติดตาม Monitoring/Log และทบทวนชุดสูตรประจำปีโดยคณะกรรมการ
 
 ---
 
 ## สิ่งที่ต้องการจากท่านเพื่อไปขั้นตอนถัดไป
-1. ยืนยันหรือแก้ไขประเด็น **Q-01 ถึง Q-15** (ข้อ 1.9)
+1. ✓ Q-01 ถึง Q-15 อนุมัติแล้ว · เหลือยืนยันประเด็นใหม่ **N-01 ถึง N-06** (ข้อ 1.10)
 2. ยืนยันว่าเซลล์ #REF! (E-01, E-02) ควรอ้างอิงอะไร และต้องการให้รายงานกลับไปยังเจ้าของไฟล์หรือไม่
-3. ความเห็นต่อ Mockup ทั้ง 9 หน้า (+ Mobile)
+3. ความเห็นต่อ Mockup ทั้ง 11 หน้า (+ Mobile)
 4. ข้อมูล Provider ID ตามรายการในข้อ 2.6
 5. ความถนัดของทีม IT (PHP/Laravel หรือ TypeScript/NestJS) และสภาพแวดล้อม Server
 
